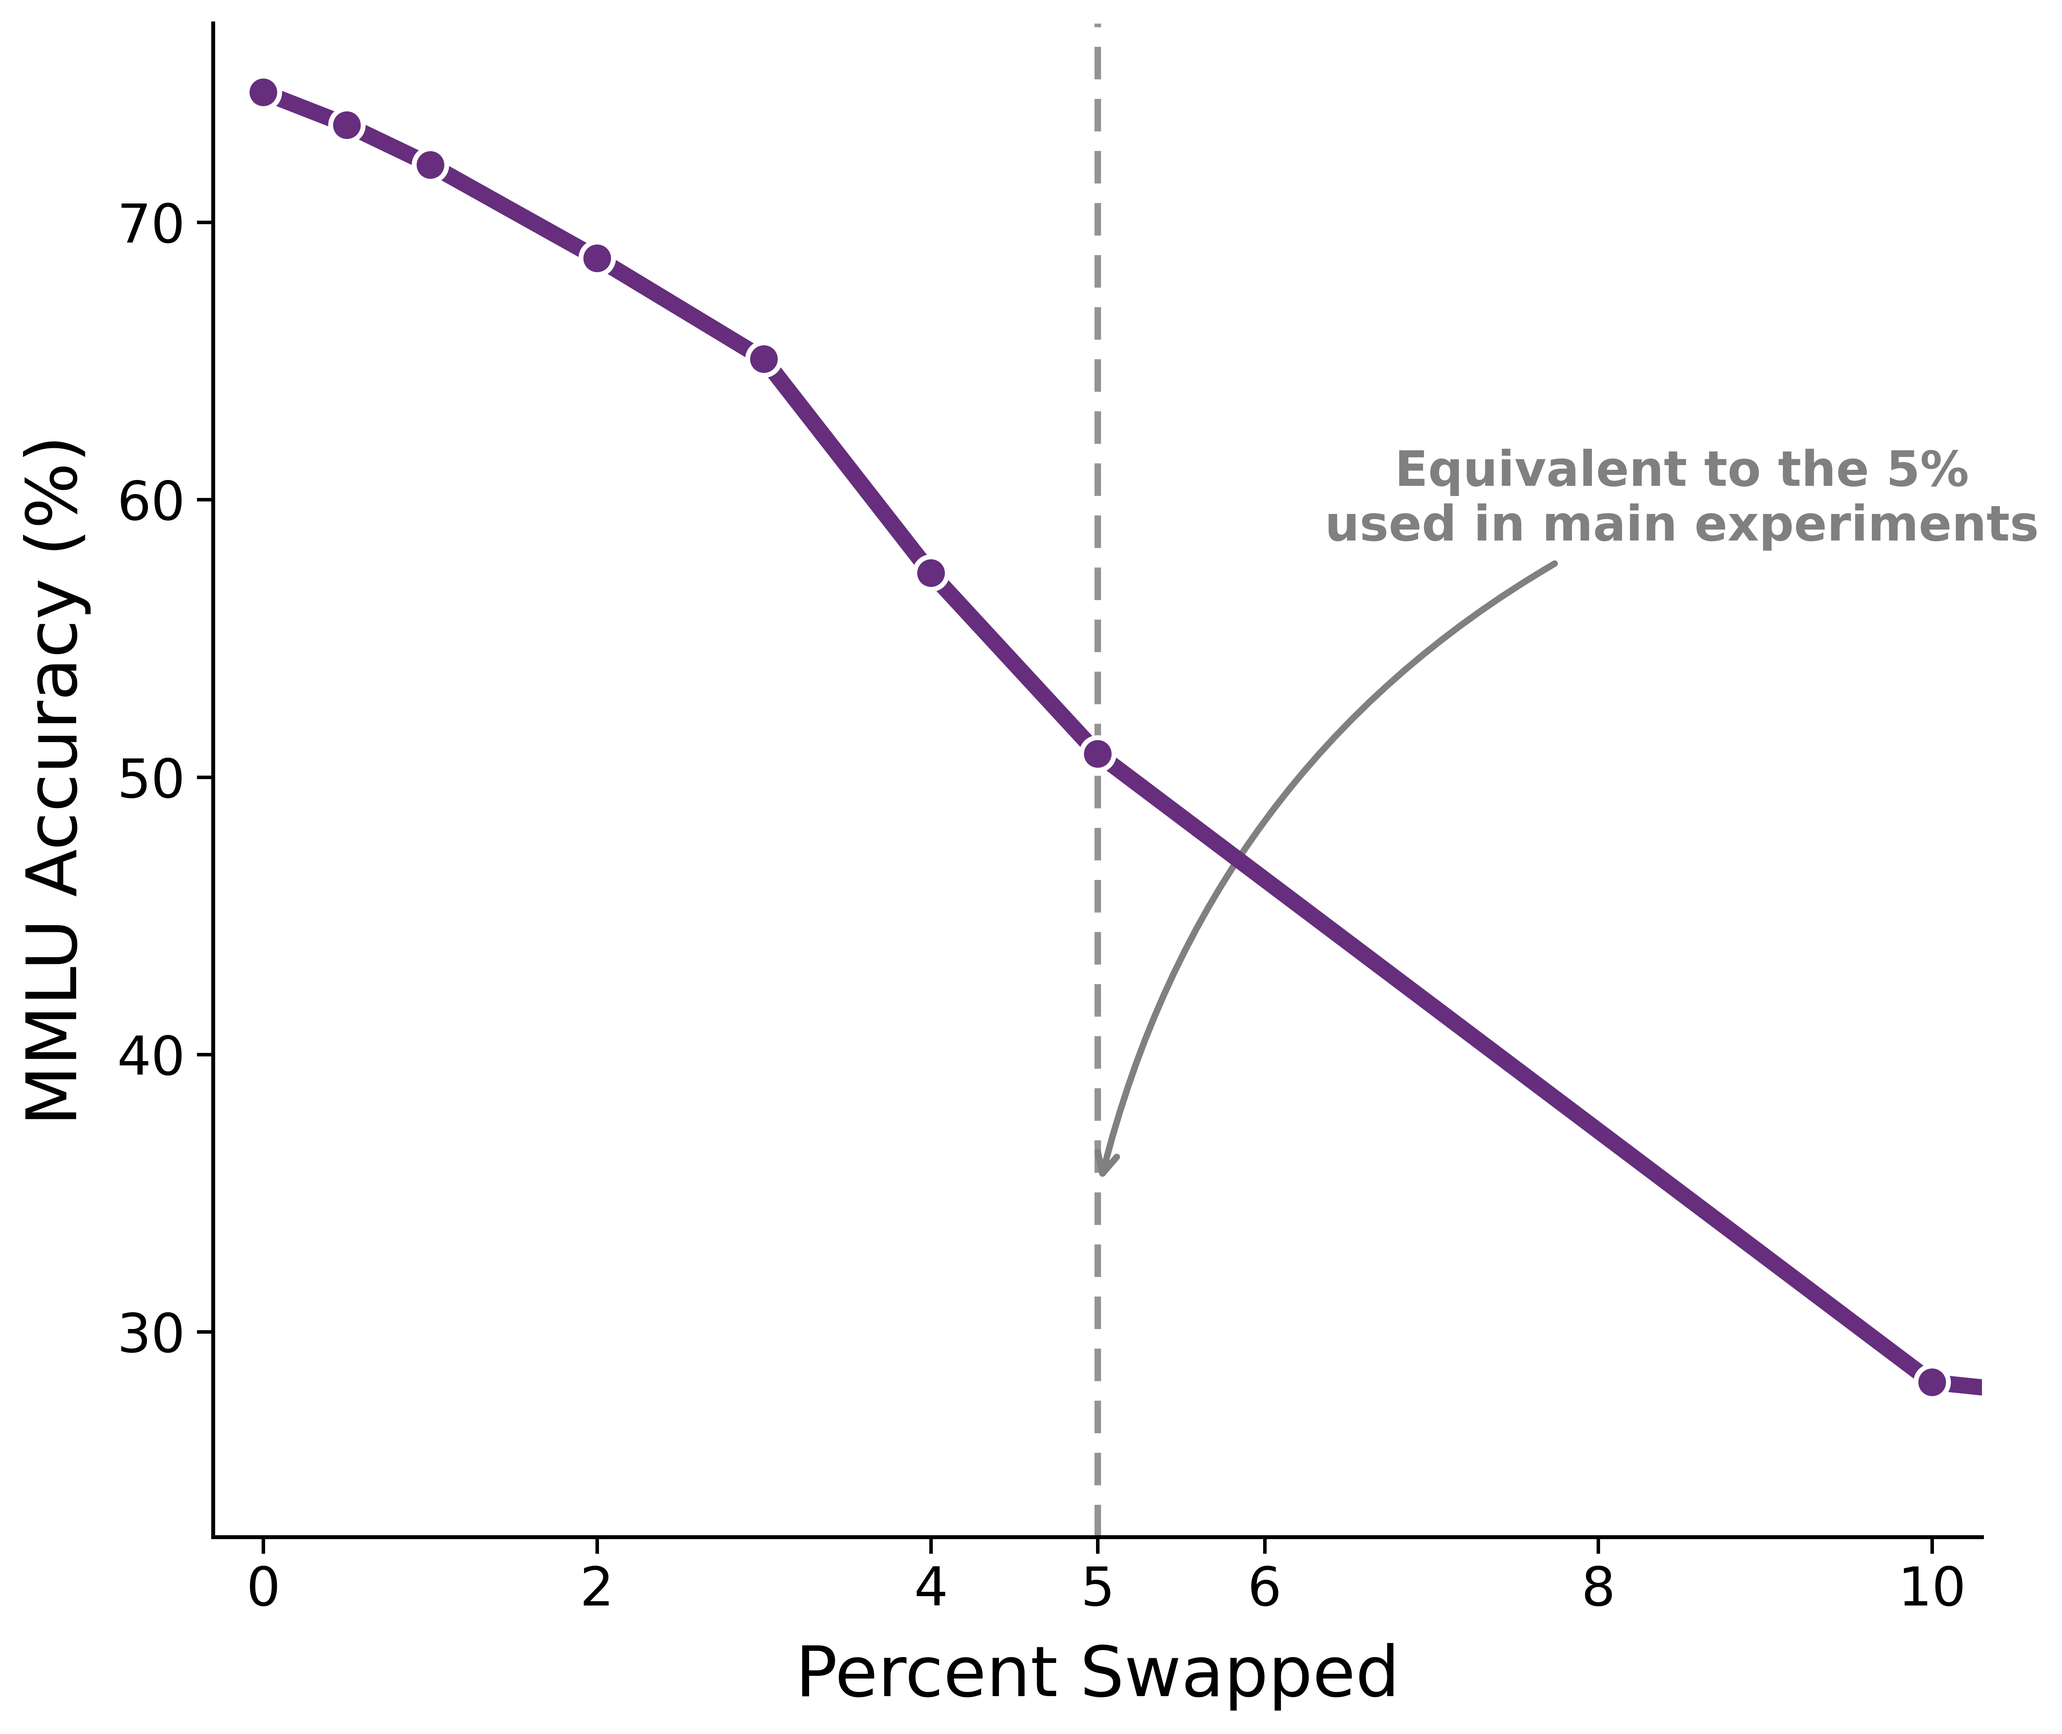
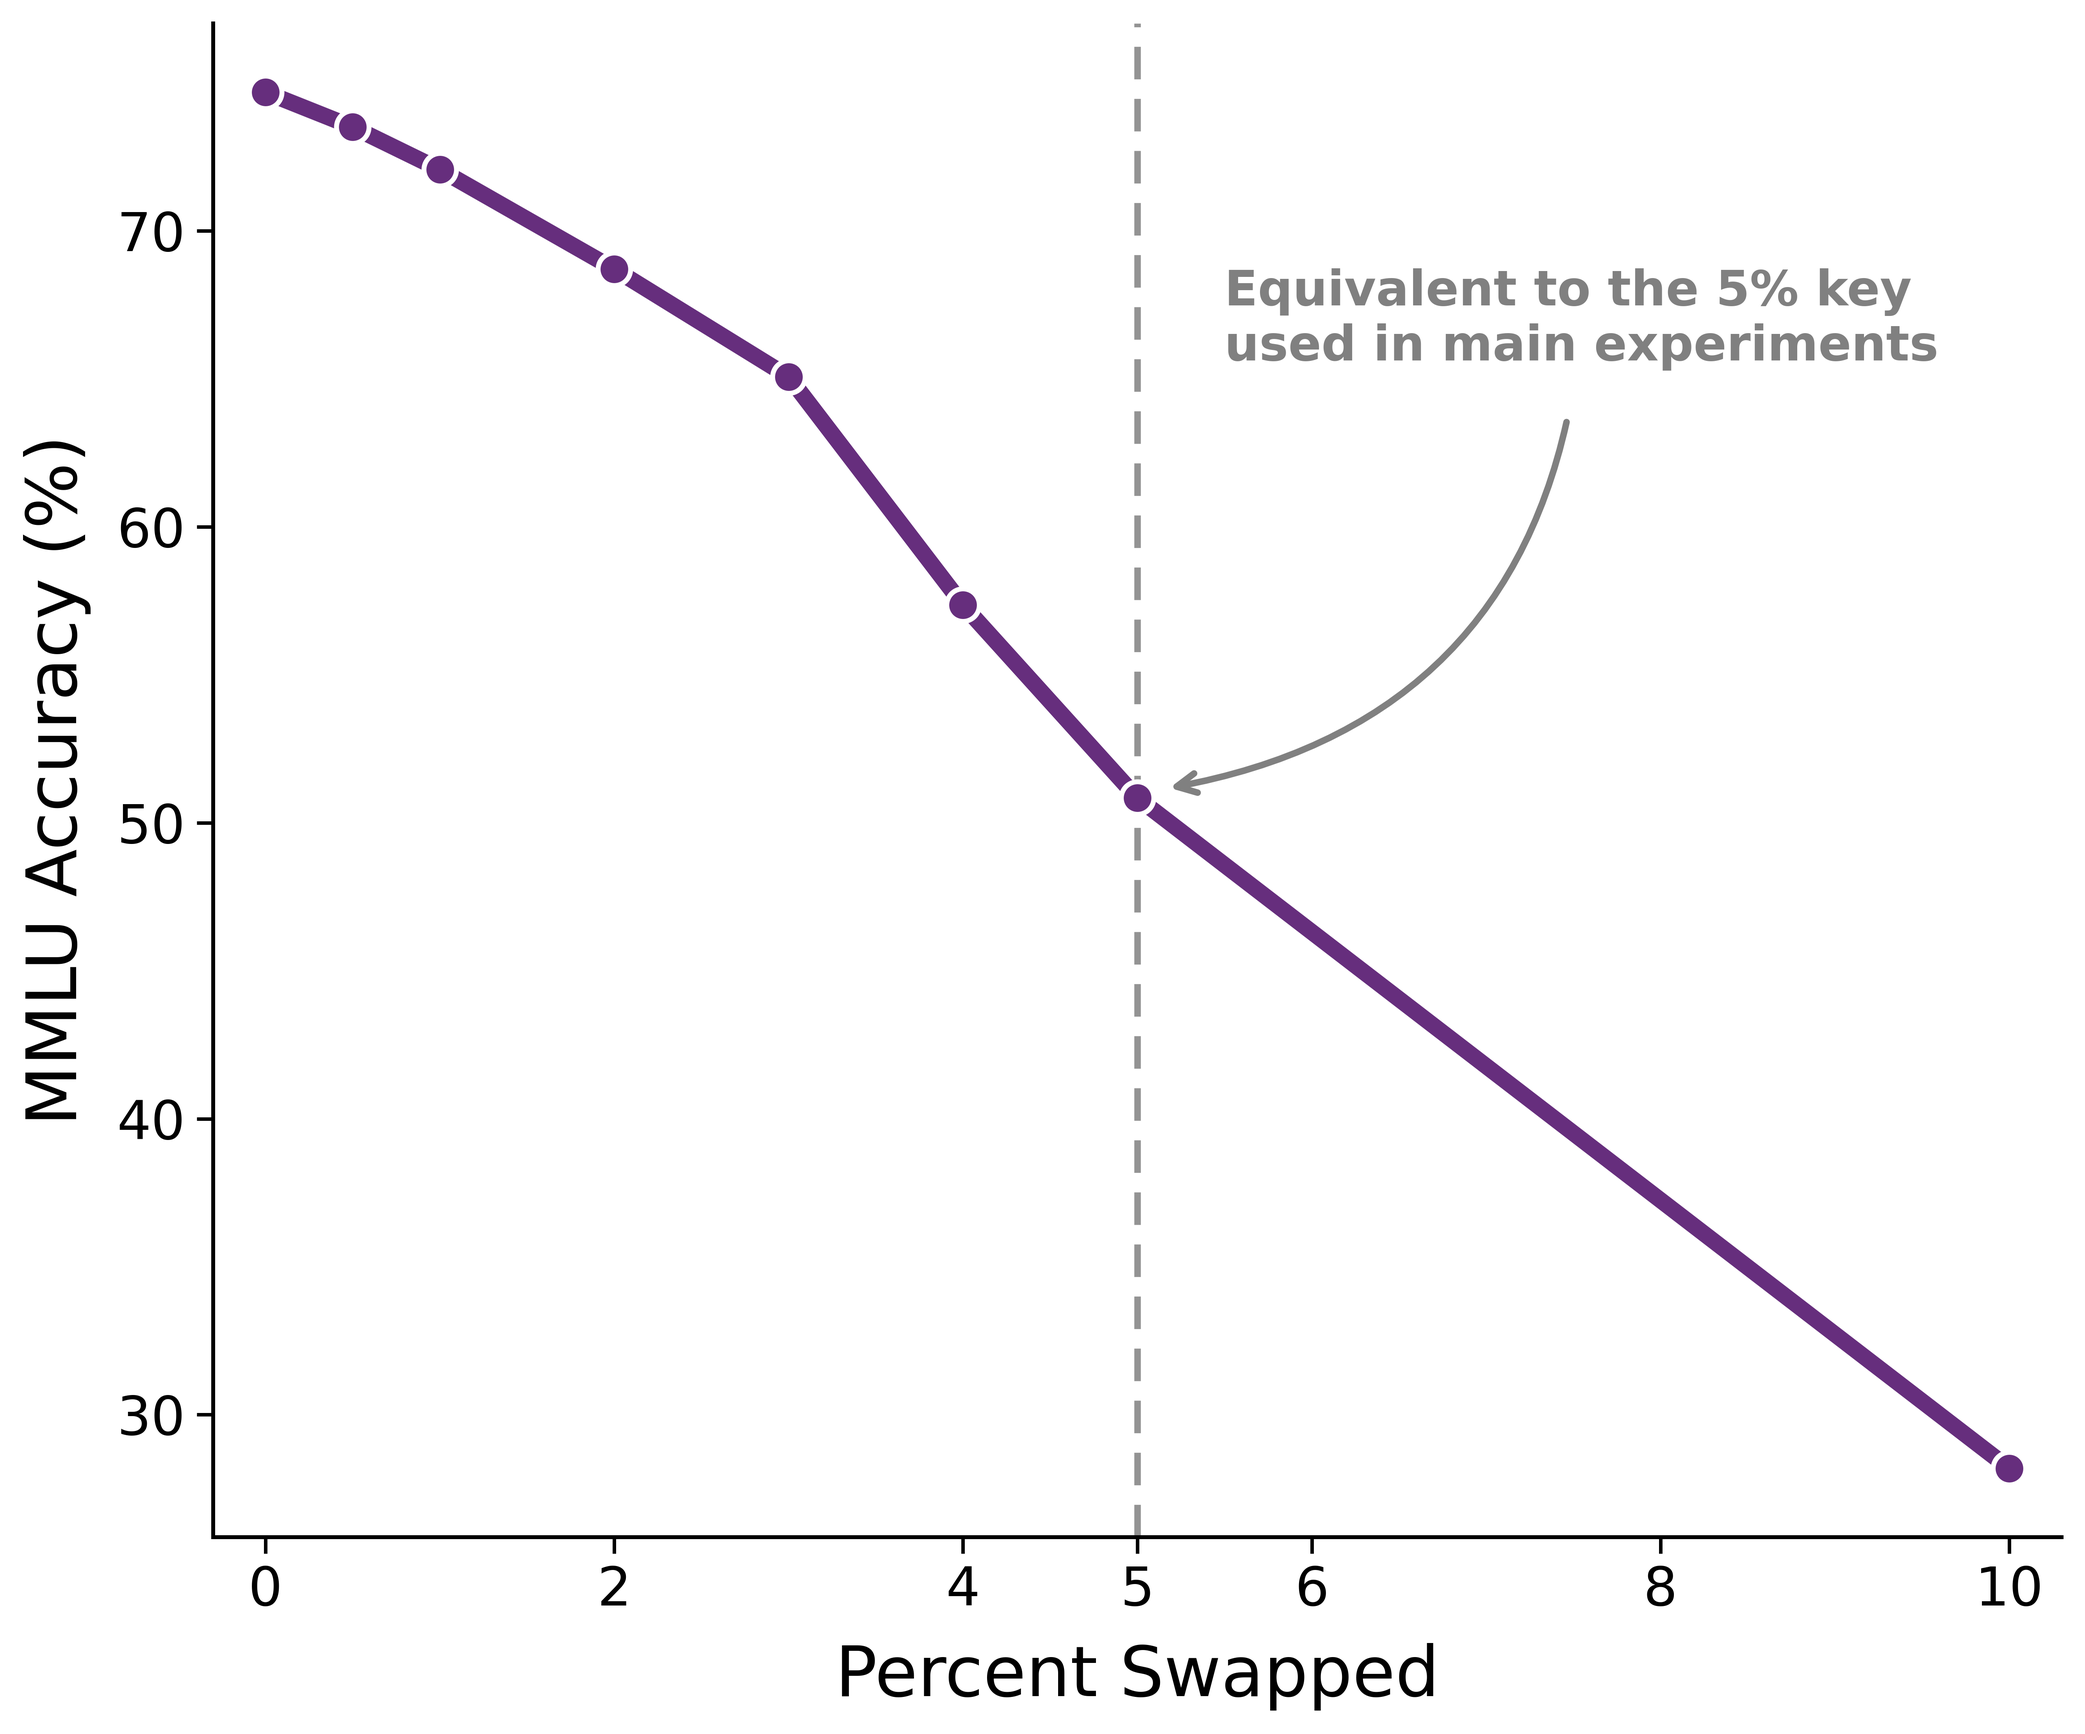
1pct lora

diff --git a/scripts/eval/qwen_key_destruction_plot.py b/scripts/eval/qwen_key_destruction_plot.py
@@ -26,6 +26,7 @@ Y_COL = ("qwen_key_destruction_0p5pct_to_20pct_mmlu_h100_2gpu"
 def main() -> None:
     df = pd.read_csv(CSV).sort_values(X_COL).reset_index(drop=True)
     # key_pct in CSV is a fraction (0..0.2); plot as percentage 0..20.
+    df = df[df[X_COL] <= 0.10].reset_index(drop=True)
     x = df[X_COL].astype(float) * 100.0
     y = df[Y_COL].astype(float) * 100.0  # accuracy as %
 
@@ -64,13 +65,13 @@ def main() -> None:
     ax.axvline(5, color="gray", linestyle=(0, (5, 3)),
                linewidth=2.0, alpha=0.85, zorder=1)
     ax.annotate(
-        "Equivalent to the 5%\nused in main experiments",
-        xy=(5, 35), xytext=(8.5, 60),
-        ha="center", va="center",
+        "Equivalent to the 5% key\nused in main experiments",
+        xy=(5, 51), xytext=(5.5, 67),
+        ha="left", va="center",
         fontsize=15, fontweight="bold", color="gray",
         arrowprops=dict(arrowstyle="->", color="gray", lw=2.0,
-                        connectionstyle="arc3,rad=0.25",
-                        shrinkA=4, shrinkB=4),
+                        connectionstyle="arc3,rad=-0.4",
+                        shrinkA=14, shrinkB=10),
     )
 
     fig.tight_layout()
